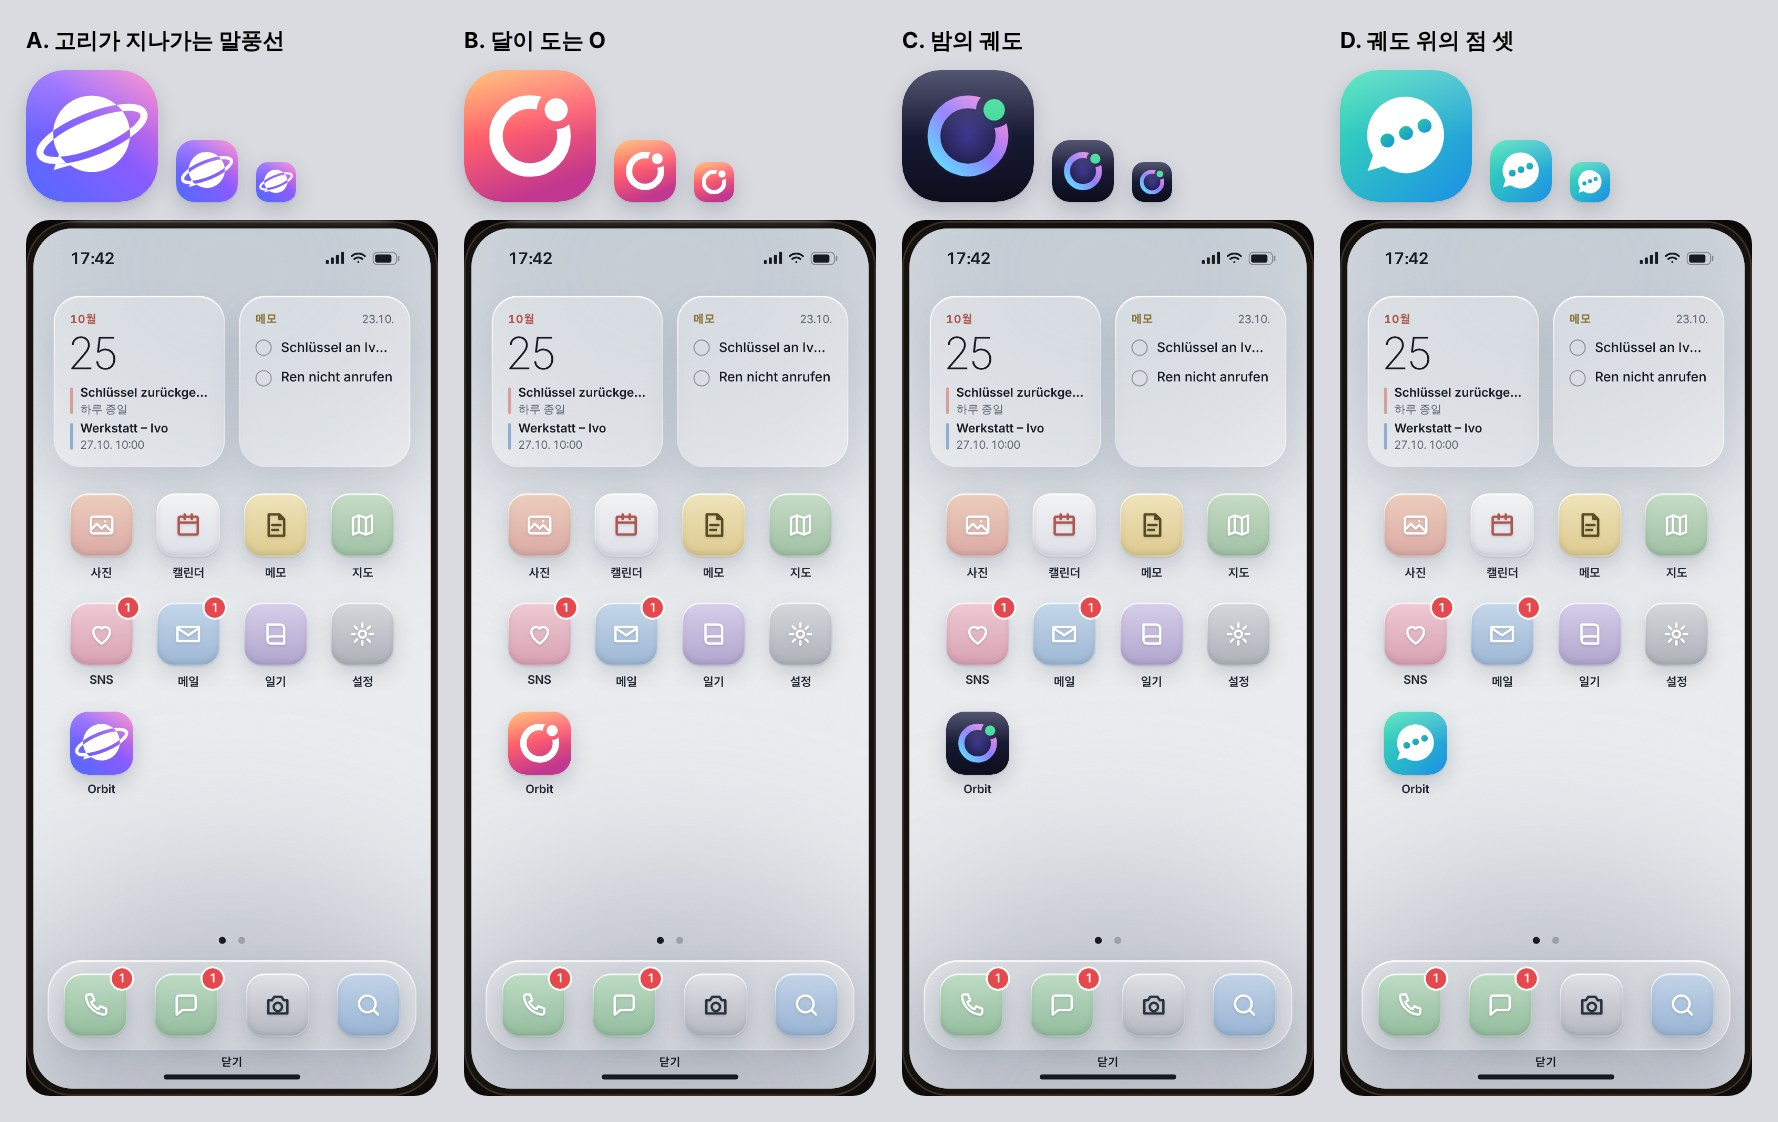
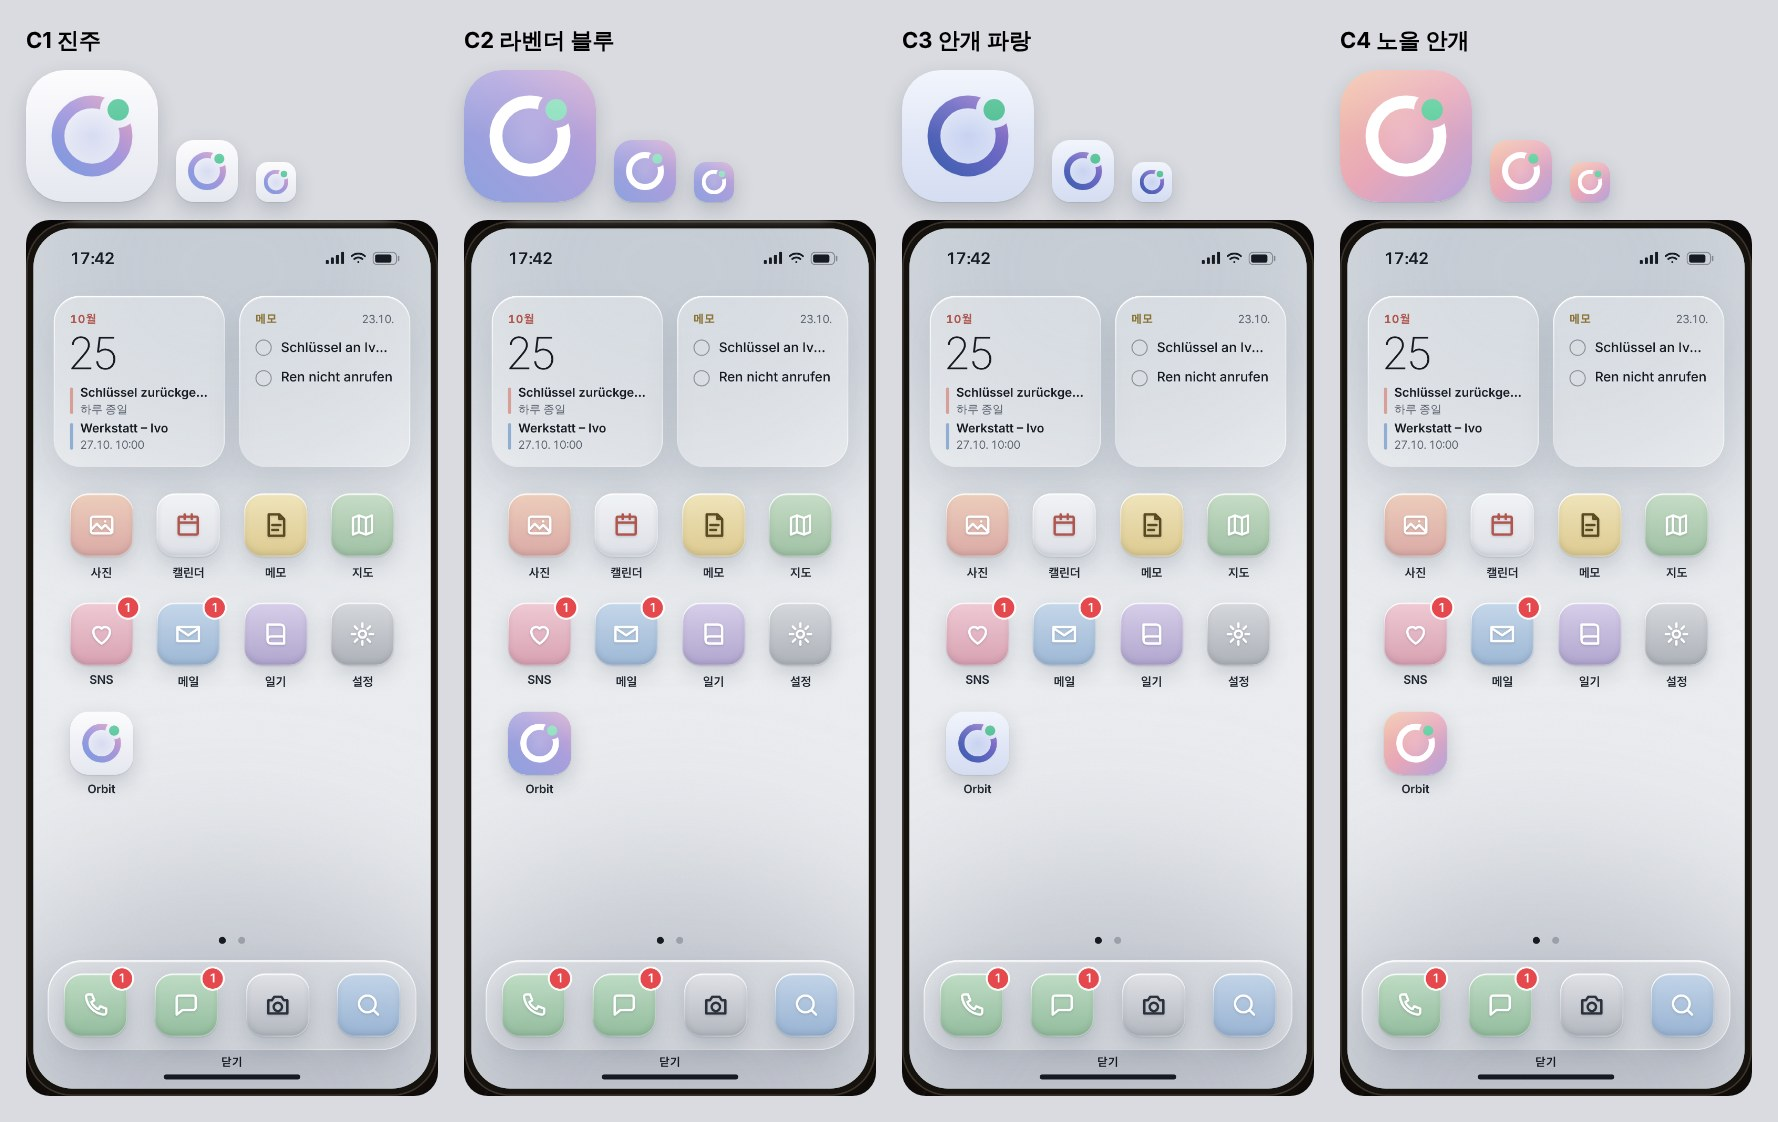
Orbit 아이콘 시안 3차: C 모양 그대로, 밝고 차분한 판 네 가지(진주 · 라벤더 블루 · 안개 파랑 · 노을 안개)
Claude-Session: https://claude.ai/code/session_01TBUyc4nvbfrUF2uL1hRtAL

diff --git a/docs/mockups/phone2-orbit/icons.js b/docs/mockups/phone2-orbit/icons.js
@@ -6,34 +6,36 @@ const tile = (id, fill, mark, defs = '') => `<svg viewBox="0 0 ${T} ${T}" width=
   <clipPath id="${id}_c"><rect width="${T}" height="${T}" rx="${R}"/></clipPath></defs>
   <g clip-path="url(#${id}_c)"><rect width="${T}" height="${T}" fill="${fill}"/>${mark}<rect width="${T}" height="${T}" fill="url(#${id}_hl)"/></g></svg>`;
 const ORBIT = {
-  // A. 고리가 지나가는 말풍선: 흰 말풍선을 기울어진 궤도가 꿰뚫어요(말풍선 안에선 판 색으로 비치고, 밖에선 흰 선)
+  // C1. 진주: 흰 진주빛 판 + 먼지 낀 파랑 · 라벤더 · 장미 고리, 차분한 초록 점
   A: tile('a', 'url(#a_bg)', `
-    <mask id="a_m"><rect width="64" height="64" fill="#fff"/><ellipse cx="32" cy="31" rx="27" ry="8.6" transform="rotate(-22 32 31)" fill="none" stroke="#000" stroke-width="3.4"/></mask>
-    <mask id="a_o"><rect width="64" height="64" fill="#fff"/><path d="M32 12.5a18.5 18.5 0 1 1-10.6 33.7l-8 2.3 2.6-7.6A18.5 18.5 0 0 1 32 12.5z" fill="#000"/></mask>
-    <path d="M32 12.5a18.5 18.5 0 1 1-10.6 33.7l-8 2.3 2.6-7.6A18.5 18.5 0 0 1 32 12.5z" fill="#fff" mask="url(#a_m)"/>
-    <ellipse cx="32" cy="31" rx="27" ry="8.6" transform="rotate(-22 32 31)" fill="none" stroke="#fff" stroke-width="3.4" mask="url(#a_o)"/>`,
-    `<linearGradient id="a_bg" x1="0" y1="1" x2="1" y2="0"><stop offset="0" stop-color="#4f6bff"/><stop offset=".55" stop-color="#8a5cff"/><stop offset="1" stop-color="#ff7ac6"/></linearGradient>`),
-  // B. 달이 도는 O: 굵은 흰 고리 + 고리 위를 도는 흰 달(달 둘레는 고리가 끊겨요)
+    <circle cx="32" cy="32" r="22" fill="url(#a_glow)"/>
+    <mask id="a_m"><rect width="64" height="64" fill="#fff"/><circle cx="44.7" cy="19.3" r="8.8" fill="#000"/></mask>
+    <circle cx="32" cy="32" r="16.5" fill="none" stroke="url(#a_ring)" stroke-width="6.2" mask="url(#a_m)"/>
+    <circle cx="44.7" cy="19.3" r="5.2" fill="#58c79c"/>`,
+    `<linearGradient id="a_bg" x1="0" y1="0" x2="0" y2="1"><stop offset="0" stop-color="#fbfbfd"/><stop offset="1" stop-color="#e6e8f0"/></linearGradient><radialGradient id="a_glow"><stop offset="0" stop-color="#a9b4ea" stop-opacity=".35"/><stop offset="1" stop-color="#a9b4ea" stop-opacity="0"/></radialGradient>
+     <linearGradient id="a_ring" x1="0" y1="1" x2="1" y2="0"><stop offset="0" stop-color="#7f9be0"/><stop offset=".55" stop-color="#a596dc"/><stop offset="1" stop-color="#df9fbf"/></linearGradient>`),
+  // C2. 라벤더 블루: 먼지 낀 파랑 → 라벤더 판 + 흰 고리, 민트 점
   B: tile('b', 'url(#b_bg)', `
-    <mask id="b_m"><rect width="64" height="64" fill="#fff"/><circle cx="44.7" cy="19.3" r="9.4" fill="#000"/></mask>
-    <circle cx="32" cy="32" r="16.5" fill="none" stroke="#fff" stroke-width="6.6" mask="url(#b_m)"/>
-    <circle cx="44.7" cy="19.3" r="5.6" fill="#fff"/>`,
-    `<linearGradient id="b_bg" x1="0" y1="0" x2=".35" y2="1"><stop offset="0" stop-color="#ffb35c"/><stop offset=".5" stop-color="#ff5f6d"/><stop offset="1" stop-color="#c2378f"/></linearGradient>`),
-  // C. 밤의 궤도: 먹색 판 + 무지갯빛 굵은 고리, 실시간 폰 노치의 초록 점
+    <circle cx="32" cy="32" r="22" fill="url(#b_glow)"/>
+    <mask id="b_m"><rect width="64" height="64" fill="#fff"/><circle cx="44.7" cy="19.3" r="8.8" fill="#000"/></mask>
+    <circle cx="32" cy="32" r="16.5" fill="none" stroke="#fff" stroke-width="6.2" mask="url(#b_m)"/>
+    <circle cx="44.7" cy="19.3" r="5.2" fill="#8fe0bf"/>`,
+    `<linearGradient id="b_bg" x1="0" y1="1" x2="1" y2="0"><stop offset="0" stop-color="#8da2df"/><stop offset=".6" stop-color="#ab9fdc"/><stop offset="1" stop-color="#d3a9cf"/></linearGradient><radialGradient id="b_glow"><stop offset="0" stop-color="#ffffff" stop-opacity=".18"/><stop offset="1" stop-color="#ffffff" stop-opacity="0"/></radialGradient>`),
+  // C3. 안개 파랑: 아주 옅은 하늘빛 판 + 짙은 남보라 고리(앱 파랑 계열), 초록 점
   C: tile('c', 'url(#c_bg)', `
     <circle cx="32" cy="32" r="22" fill="url(#c_glow)"/>
     <mask id="c_m"><rect width="64" height="64" fill="#fff"/><circle cx="44.7" cy="19.3" r="8.8" fill="#000"/></mask>
     <circle cx="32" cy="32" r="16.5" fill="none" stroke="url(#c_ring)" stroke-width="6.2" mask="url(#c_m)"/>
-    <circle cx="44.7" cy="19.3" r="5.2" fill="#3ddc97"/>`,
-    `<linearGradient id="c_bg" x1="0" y1="0" x2="0" y2="1"><stop offset="0" stop-color="#23264a"/><stop offset="1" stop-color="#0c0d1c"/></linearGradient>
-     <radialGradient id="c_glow"><stop offset="0" stop-color="#6d5cff" stop-opacity=".45"/><stop offset="1" stop-color="#6d5cff" stop-opacity="0"/></radialGradient>
-     <linearGradient id="c_ring" x1="0" y1="1" x2="1" y2="0"><stop offset="0" stop-color="#5ee7ff"/><stop offset=".5" stop-color="#8f7dff"/><stop offset="1" stop-color="#ff8ad8"/></linearGradient>`),
-  // D. 궤도 위의 점 세 개: 흰 말풍선 안에 입력 중 점 셋이 곡선 궤도를 따라 놓여요(판 색 점)
+    <circle cx="44.7" cy="19.3" r="5.2" fill="#4fbf92"/>`,
+    `<linearGradient id="c_bg" x1="0" y1="0" x2="0" y2="1"><stop offset="0" stop-color="#eef2fb"/><stop offset="1" stop-color="#d5ddf2"/></linearGradient><radialGradient id="c_glow"><stop offset="0" stop-color="#8ea3e6" stop-opacity=".3"/><stop offset="1" stop-color="#8ea3e6" stop-opacity="0"/></radialGradient>
+     <linearGradient id="c_ring" x1="0" y1="1" x2="1" y2="0"><stop offset="0" stop-color="#3f5fb0"/><stop offset=".6" stop-color="#6b68c4"/><stop offset="1" stop-color="#a07ac8"/></linearGradient>`),
+  // C4. 노을 안개: 복숭아 → 장미 → 라벤더 옅은 판 + 흰 고리, 흰 테두리 초록 점
   D: tile('d', 'url(#d_bg)', `
-    <path d="M32 13a18.5 18.5 0 1 1-10.6 33.7l-8 2.3 2.6-7.6A18.5 18.5 0 0 1 32 13z" fill="#fff"/>
-    <circle cx="23" cy="34.2" r="3.4" fill="url(#d_dot)"/><circle cx="32" cy="30.6" r="3.4" fill="url(#d_dot)"/><circle cx="41" cy="27" r="3.4" fill="url(#d_dot)"/>`,
-    `<linearGradient id="d_bg" x1="0" y1="0" x2="1" y2="1"><stop offset="0" stop-color="#3be2b0"/><stop offset="1" stop-color="#1b8fe6"/></linearGradient>
-     <linearGradient id="d_dot" x1="0" y1="0" x2="1" y2="1"><stop offset="0" stop-color="#20c79a"/><stop offset="1" stop-color="#1b8fe6"/></linearGradient>`),
+    <circle cx="32" cy="32" r="22" fill="url(#d_glow)"/>
+    <mask id="d_m"><rect width="64" height="64" fill="#fff"/><circle cx="44.7" cy="19.3" r="8.8" fill="#000"/></mask>
+    <circle cx="32" cy="32" r="16.5" fill="none" stroke="#fff" stroke-width="6.2" mask="url(#d_m)"/>
+    <circle cx="44.7" cy="19.3" r="5.2" fill="#5fcf9f"/>`,
+    `<linearGradient id="d_bg" x1="0" y1="0" x2="1" y2="1"><stop offset="0" stop-color="#f3c3a6"/><stop offset=".5" stop-color="#e8a7b8"/><stop offset="1" stop-color="#b5a3dd"/></linearGradient><radialGradient id="d_glow"><stop offset="0" stop-color="#ffffff" stop-opacity=".2"/><stop offset="1" stop-color="#ffffff" stop-opacity="0"/></radialGradient>`),
 };
 const CSS = `
 .ob_ic{position:relative;width:62px;height:62px;border-radius:18px;flex:none;display:block;box-shadow:0 1px 1px rgba(40,50,70,.1),0 8px 20px rgba(40,50,70,.2)}
